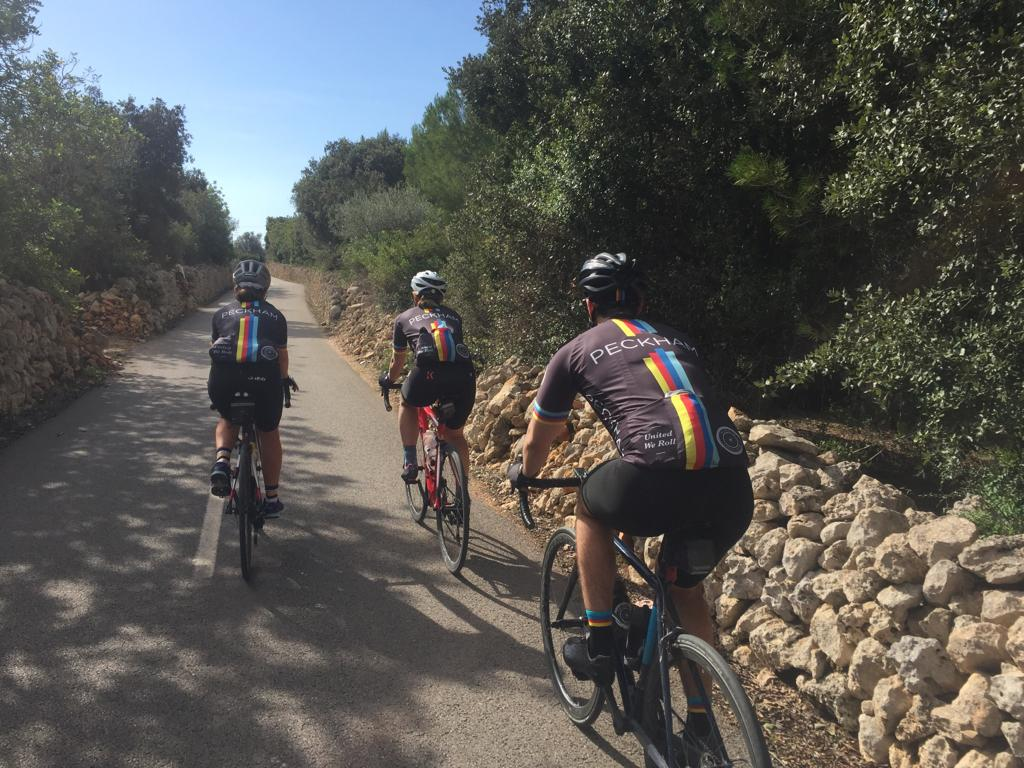
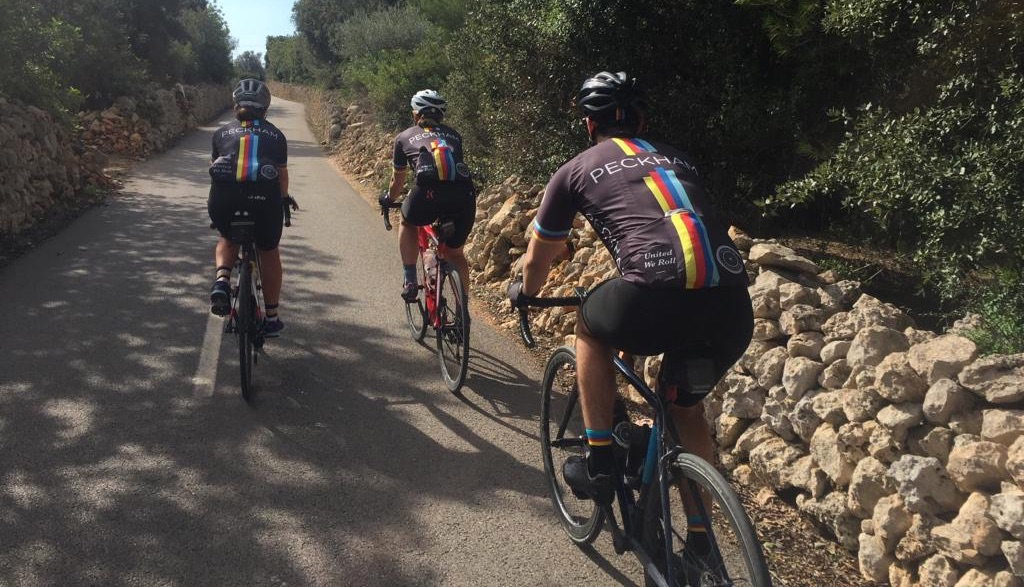
make it lighter, also add racing page

diff --git a/packages/website/src/components/nav-bar.js b/packages/website/src/components/nav-bar.js
@@ -13,7 +13,8 @@ import { signOut } from '../store/actions'
 import {
   FlexContainerCentered,
   FlexContentLeft,
-  ModalBlocker
+  ModalBlocker,
+  Break
 } from './panels'
 import pccAvatar from '../../assets/pcc-logo-round.png'
 import {
@@ -41,9 +42,9 @@ const CartContentsCount = styled.div`
 
 const NavBar = styled.nav`
   padding: 0 0 0 0;
-  height: 60px;
+  height: 67px;
   margin: 0;
-  top: 8px;
+  top: 0;
   left: 0;
   right: 0;
   z-index: 500;
@@ -172,6 +173,10 @@ const AccountNav = styled.div`
   right: 0;
 `
 
+const TopBreak = styled(Break)`
+  margin-top: 15px;
+`
+
 class NavBarWrapper extends Component {
   static propTypes = {
     cart: PropTypes.array.isRequired,
@@ -182,7 +187,6 @@ class NavBarWrapper extends Component {
 
   state = {
     bgOpacity: 0,
-    top: 8,
     menuOpen: false
   }
 
@@ -198,8 +202,7 @@ class NavBarWrapper extends Component {
     const { pageYOffset } = window
 
     this.setState({
-      bgOpacity: pageYOffset < 100 ? pageYOffset / 100 : 1,
-      top: pageYOffset > 8 ? 0 : 8 - pageYOffset
+      bgOpacity: pageYOffset < 100 ? pageYOffset / 100 : 1
     })
   }
 
@@ -216,7 +219,7 @@ class NavBarWrapper extends Component {
         pathname
       }
     } = this.props
-    const { bgOpacity, top, menuOpen } = this.state
+    const { bgOpacity, menuOpen } = this.state
     let logoOpacity = 1
 
     if (pathname === '/') {
@@ -228,9 +231,7 @@ class NavBarWrapper extends Component {
     }, 0)
 
     return (
-      <NavBar style={{
-        top
-      }}>
+      <NavBar>
         <SiteIcon style={{
           opacity: logoOpacity
         }}>
@@ -253,6 +254,9 @@ class NavBarWrapper extends Component {
                   </NavLink>
                   <NavLink>
                     <Link to='/rides'>Rides</Link>
+                  </NavLink>
+                  <NavLink>
+                    <Link to='/racing'>Racing</Link>
                   </NavLink>
                   <NavLink>
                     <Link to='/routes'>Routes</Link>
@@ -303,7 +307,7 @@ class NavBarWrapper extends Component {
         </Flag>
 
         {menuOpen && (
-          <ModalBlocker onClick={this.toggleDropDownMenu} style={{ top: top + 60 }}>
+          <ModalBlocker onClick={this.toggleDropDownMenu} style={{ top: 60 }}>
             <MobileNav>
               <NavLink>
                 <Link to='/'>Home</Link>
@@ -350,6 +354,7 @@ class NavBarWrapper extends Component {
           </ModalBlocker>
         )}
 
+        <TopBreak />
       </NavBar>
     )
   }

diff --git a/packages/website/src/pages/about.js b/packages/website/src/pages/about.js
@@ -20,7 +20,7 @@ class AboutPage extends Component {
           <h2>The Club</h2>
           <p>Peckham Cycle Club was set up in 2013 by a group of Peckham residents with a shared passion for cycling.</p>
           <p>Over the years it has gone from strength to strength and has even become a <a href='https://www.britishcycling.org.uk/club/profile/8092/peckham-cycle-club'>British Cycling affiliated club</a> and a <a href='https://www.gov.uk/government/publications/community-amateur-sports-clubs-casc-registered-with-hmrc--2/o-p-q-r#p'>Community Amateur Sports Club</a>.</p>
-          <p>We have weekly social rides that are open to all, monthly women-only rides, groups doing faster/longer training rides, evening sessions at the Olympic park, the odd Cyclocross race and even groups doing laps of Regent's Park unreasonably early in the morning a couple of times a week.</p>
+          <p>We have weekly social rides that are open to all, monthly women-only rides, groups doing faster/longer training rides, evening sessions at the Olympic park, the odd <Link to='/racing'>Cyclocross race</Link> and even groups doing laps of Regent's Park unreasonably early in the morning a couple of times a week.</p>
           <p>As well as doing regular sportives in the UK, we've had a groups doing long sportives/training trips on the continent including to Nice, Paris Roubaix, l'Etape du Tour and the Marmotte.</p>
           <p>Most of the organising for the club takes place in our WhatsApp group - <Link to='/contact'>get in touch</Link> if you'd like to be added.</p>
         </Panel>

diff --git a/packages/website/src/pages/racing.js b/packages/website/src/pages/racing.js
@@ -1,0 +1,30 @@
+import React, {
+  Component
+} from 'react'
+import {
+  Link
+} from 'react-router-dom'
+import {
+  PageWrapper,
+  Panel,
+  Hero
+} from '../components/panels'
+import racingBackground from '../../assets/racing-bg.jpg'
+
+class RacingPage extends Component {
+  render () {
+    return (
+      <PageWrapper>
+        <Hero background={racingBackground.src} />
+        <Panel>
+          <h2>Racing</h2>
+          <p>A number of our club members compete regularly in the local cyclocross circuit and we've also started taking part in the LVCC Tuesday 10s time trials at the Lee Valley VeloPark and have even entered the odd criterium.</p>
+          <p>Keeping it South, Herne Hill velodrome is our local track and it offers not only a great 'cross circuit but also training sessions for various disiplines.</p>
+          <p>Most of the organising for the club takes place in our WhatsApp group - <Link to='/contact'>get in touch</Link> if you'd like to be added.</p>
+        </Panel>
+      </PageWrapper>
+    )
+  }
+}
+
+export default RacingPage

diff --git a/packages/website/src/app.js b/packages/website/src/app.js
@@ -16,6 +16,7 @@ import {
   Equipment,
   Home,
   Orders,
+  Racing,
   Rides,
   Routes,
   Shop,
@@ -59,10 +60,6 @@ const AppWrapper = styled(FlexContainer)`
   min-height: 100vh;
 `
 
-const TopBreak = styled(Break)`
-  margin-top: 0;
-`
-
 export default () => {
   return (
     <FlagsProvider flags={config.flags}>
@@ -70,7 +67,6 @@ export default () => {
         <Router>
           <ScrollToTop>
             <AppWrapper vertical>
-              <TopBreak />
               <FlexItem expand>
                 <Navigation />
                 <Route path='/account' component={Account} />
@@ -82,6 +78,7 @@ export default () => {
                 <Route path='/club' component={About} />
                 <Route path='/contact' component={Contact} />
                 <Route path='/mailing-list' component={MailingList} />
+                <Route path='/racing' component={Racing} />
                 <Route path='/riding' component={Riding} />
                 <Route path='/leading' component={Leading} />
                 <Route path='/kit' component={Kit} />

diff --git a/packages/website/src/components/footer.js b/packages/website/src/components/footer.js
@@ -6,9 +6,9 @@ import {
   FaInstagram
 } from 'react-icons/fa'
 import {
-  darkAccent,
-  darkLowlight,
-  light
+  dark,
+  light,
+  lightAccent
 } from '../colours'
 import {
   FlexContainerCentered,
@@ -22,8 +22,8 @@ const Footer = styled.footer`
   clear: both;
   padding: ${spacing(3)} ${spacing(2)} ${spacing(1)} ${spacing(2)};
   font-size: 16px;
-  color: ${darkAccent};
-  background-color: ${darkLowlight};
+  color: ${lightAccent};
+  background-color: ${dark};
 
   @media (max-width: 640px) {
     font-size: 12px;
@@ -31,12 +31,12 @@ const Footer = styled.footer`
 `
 
 const SocialLink = styled.a`
-  color: ${darkAccent};
+  color: ${lightAccent};
   font-size: 18px;
   margin-left: 10px;
 
   &:link {
-    color: ${darkAccent};
+    color: ${lightAccent};
   }
 
   &:hover {

diff --git a/packages/website/src/components/panels.js b/packages/website/src/components/panels.js
@@ -2,8 +2,18 @@ import React from 'react'
 import { Link } from 'react-router-dom'
 import styled from 'styled-components'
 import stripesImage from '../../assets/stripes.png'
-import { main, light, lightAccent, dark } from '../colours'
-import { spacing, MAX_PAGE_WIDTH } from '../units'
+import {
+  main,
+  light,
+  lightAccent,
+  dark,
+  darkAccent,
+  errorText
+} from '../colours'
+import {
+  spacing,
+  MAX_PAGE_WIDTH
+} from '../units'
 
 export const FlexContainerCentered = styled.div`
   display: flex;
@@ -254,6 +264,11 @@ export const LinkPanel = styled.div`
     text-decoration: none;
     padding: 80px 0;
     font-size: 48px;
+    color: ${darkAccent};
+  }
+
+  a:hover {
+    color: ${errorText}
   }
 
   &::after {

diff --git a/packages/website/src/pages/equipment.js b/packages/website/src/pages/equipment.js
@@ -11,7 +11,7 @@ import {
   LinkPanel
 } from '../components/panels'
 import ridesBackground from '../../assets/rides-bg.jpg'
-import membershipBackground from '../../assets/membership-bg.jpg'
+import ridingBackground from '../../assets/riding-bg.jpg'
 import equipmentBackground from '../../assets/equipment-bg.jpg'
 
 class EquipmentPage extends Component {
@@ -40,7 +40,7 @@ class EquipmentPage extends Component {
         <LinkPanel background={ridesBackground.src}>
           <Link to='/rides'>Rides</Link>
         </LinkPanel>
-        <LinkPanel background={membershipBackground.src}>
+        <LinkPanel background={ridingBackground.src}>
           <Link to='/riding'>On the road</Link>
         </LinkPanel>
       </PageWrapper>

diff --git a/packages/website/src/colours.js b/packages/website/src/colours.js
@@ -1,10 +1,10 @@
 
-export const dark = '#262A2C'
-export const darkAccent = '#6E737B'
+export const dark = '#6E737B'
+export const darkAccent = '#494f52'
 export const darkLowlight = '#151718'
 export const light = '#F1F1EB'
-export const lightAccent = '#7F828C'
+export const lightAccent = '#9ea1ad'
 export const lightLowlight = '#c5c5c5'
-export const main = '#3c3e44'
+export const main = '#6E737B'
 export const errorText = '#ff6459'
 export const errorBackground = '#EC9590'

diff --git a/packages/website/src/pages/index.js b/packages/website/src/pages/index.js
@@ -11,6 +11,7 @@ export { default as Leading } from './leading'
 export { default as MailingList } from './mailing-list'
 export { default as Membership } from './membership'
 export { default as Orders } from './orders'
+export { default as Racing } from './racing'
 export { default as Rides } from './rides'
 export { default as Riding } from './riding'
 export { default as Routes } from './routes'

diff --git a/packages/website/src/index.css b/packages/website/src/index.css
@@ -9,7 +9,7 @@ h1 *, h2 *, h3 *, h4 *, h5 *, h6 * {
 }
 */
 html, body, #root {
-  background: #262a2c;
+  background: #fff;
   height: 100%;
   width: 100%;
   margin: 0;
